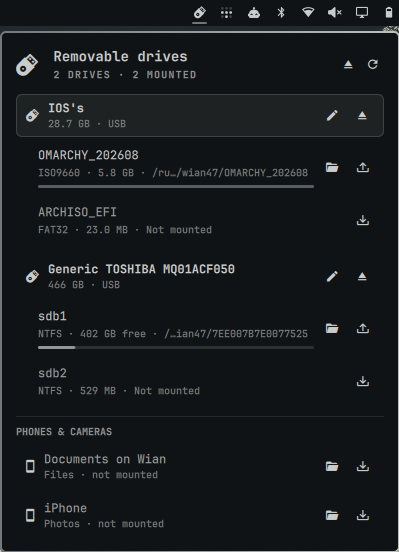
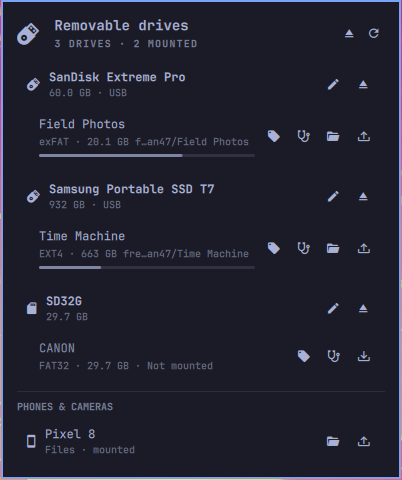
Show the buttons the preview predates
preview.png was last touched twelve commits ago, before the listing
existed and two feature releases before now, so the image every visitor
sees was selling a plugin that could not rename a volume or check one.
The rename and check buttons, the read-only rescue behind them, and the
per-volume actions on an unmounted partition were all invisible to
anyone deciding whether to install it.

Rendered by the plugin itself rather than mocked up: a crafted lsblk
tree and gio listing were fed to the real panel, so every pixel is the
interface as it actually draws. The drives in it are synthetic; the
buttons, the usage bars, the SD-card glyph and the phones section are
not.

diff --git a/README.md b/README.md
@@ -3,7 +3,7 @@
 USB sticks, SD cards, phones, and external drives in the Omarchy bar — mount,
 open, and safely eject them without a terminal.
 
-![The panel: two USB drives with their volumes and free space, and a phone offering files and photos](preview.png?v=2)
+![The panel: three removable drives with their volumes, free space and per-volume actions, and a phone offering files](preview.png?v=3)
 
 The icon only exists while a drive does. Plug one in and it appears; pull it out
 and the bar goes back to what it was.
